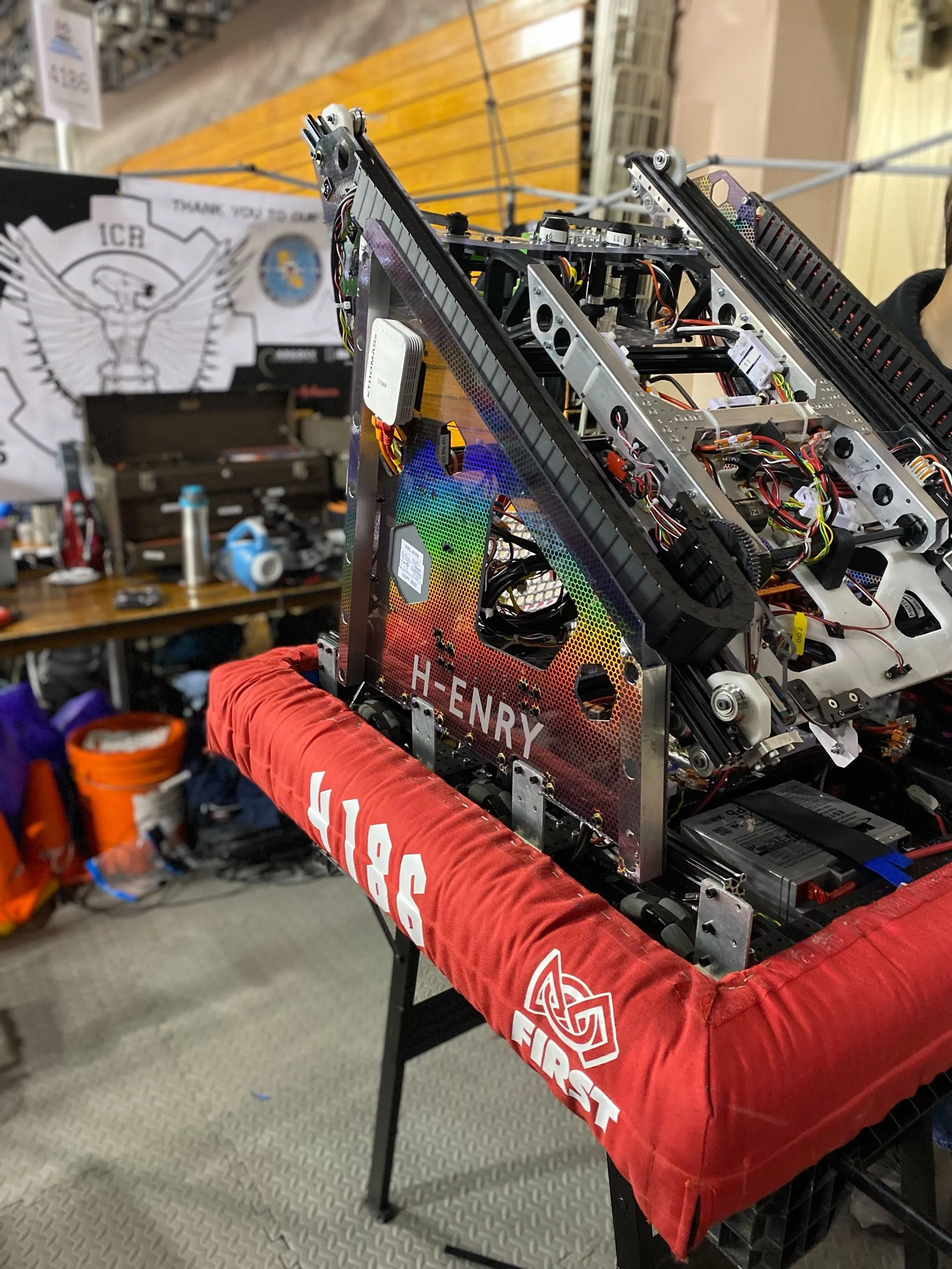
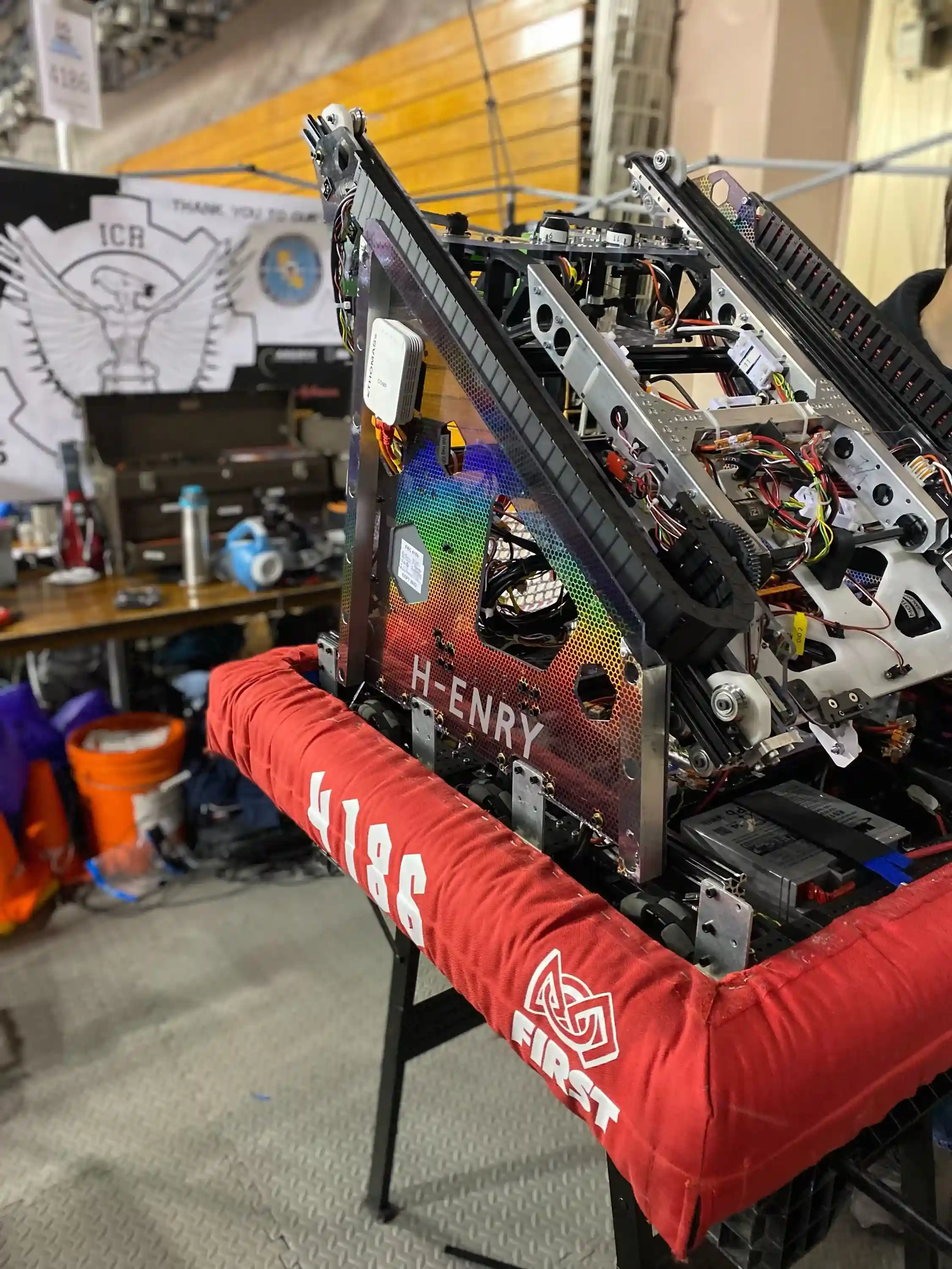
lowered quality of H-enry photo more

Changed region(s): [[0.4044, 0.372, 0.5289, 0.527], [0.5911, 0.465, 0.6533, 0.527]]

diff --git a/assets_to_webp.py b/assets_to_webp.py
@@ -7,7 +7,7 @@ from pillow_heif import register_heif_opener
 directory = "D:/Programming/Github Desktop/waffles-codes.github.io/src/assets"
 print(f'Current working directory = {directory}')
 for filename in os.scandir(directory):
-    # Ensure only PNG and JPG files are processed
+    # Ensure only PNG, JPG, and HEIC files are processed
     if filename.is_file() and (filename.name.endswith('.png') or filename.name.endswith('.jpg') or filename.name.endswith('.HEIC')):  
         print(filename)
         print(filename.path)

diff --git a/lower_quality.py b/lower_quality.py
@@ -3,7 +3,7 @@
 import os
 from PIL import Image
 
-file = "robot hand wiring closeup.webp"
+file = "H-enry henry frc 4186 robot 2023.webp"
 
 directory = "D:/Programming/Github Desktop/waffles-codes.github.io/src/assets"
 print(f'Current working directory = {directory}')
